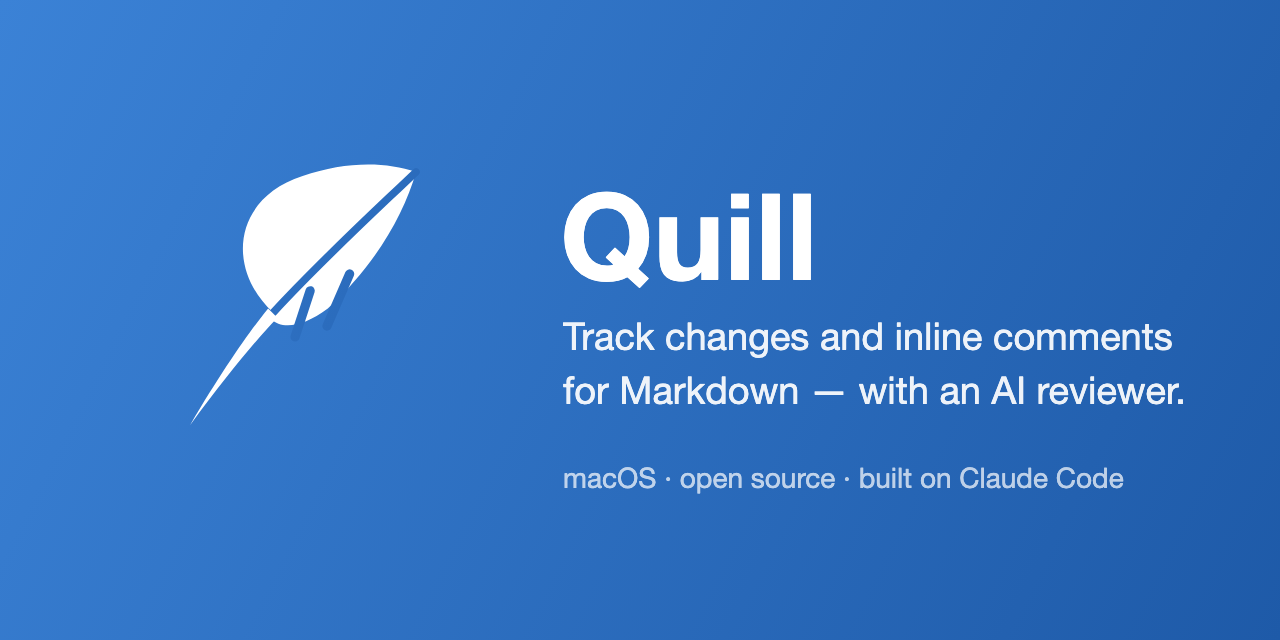
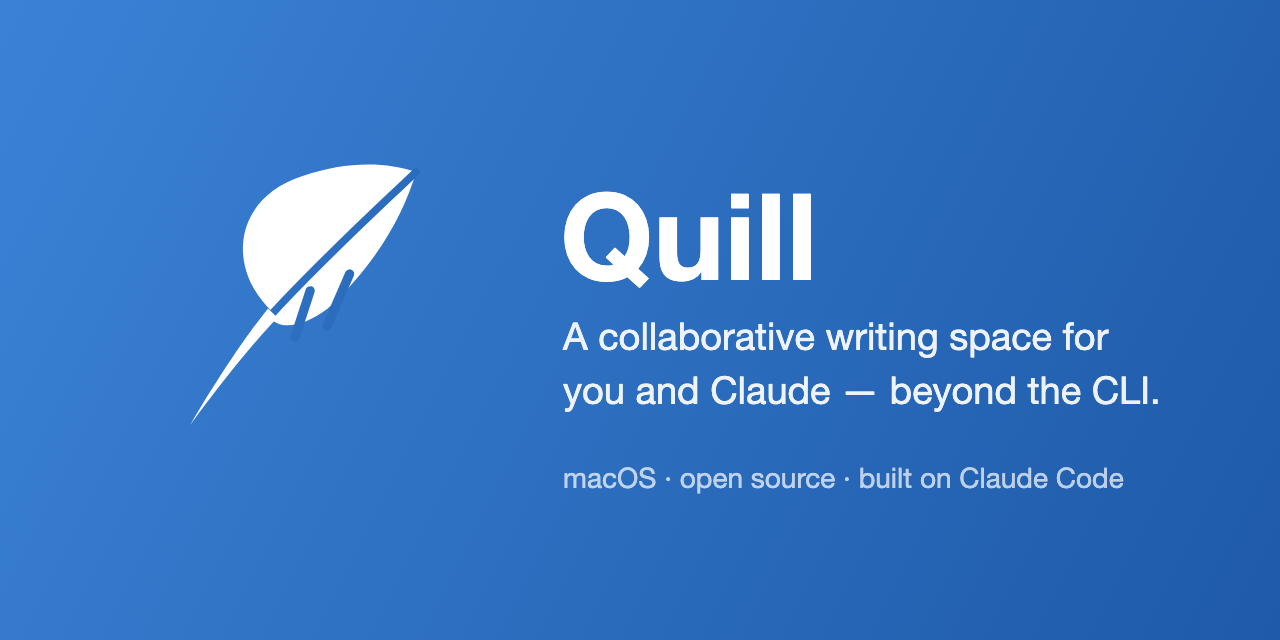
docs(hero): retheme around generating a report with Claude; new tagline
The terminal scene now shows Claude researching and writing
eu-market-entry.md before opening it in Quill, and the app frames edit
that report — the generate-with-Claude → edit-in-Quill story. Tagline
across README and the social preview now leads with the collaborative
writing environment: edit the plans and reports Claude writes, outside
the CLI. Frames restaged on top of the main merge so the comment thread
shows the question above Claude's answer.

Changed region(s): [[0.4375, 0.5, 0.9375, 0.6562]]

diff --git a/docs/assets/source/terminal.html b/docs/assets/source/terminal.html
@@ -94,6 +94,9 @@
       .out .bullet {
         color: #98c379;
       }
+      .step2 {
+        display: none;
+      }
       .caret {
         display: inline-block;
         width: 9px;
@@ -108,34 +111,50 @@
     <div class="window">
       <div class="titlebar">
         <span class="dot r"></span><span class="dot y"></span><span class="dot g"></span>
-        <span class="title">claude — ~/projects/launch</span>
+        <span class="title">claude — ~/work/eu-expansion</span>
       </div>
       <div class="body">
-        <div><span class="dim">~/projects/launch</span></div>
+        <div><span class="dim">~/work/eu-expansion</span></div>
         <div><span class="prompt">❯</span> <span class="cmd">claude</span></div>
         <div class="claude-box">
           <span class="spark">✻</span> Claude Code
-          <span class="dim">— resuming session in ~/projects/launch</span>
+          <span class="dim">— new session in ~/work/eu-expansion</span>
         </div>
         <div>
           <span class="prompt">&gt;</span>
-          <span class="slash">/quill-integration:open-in-quill</span>
-          <span class="cmd">launch-post.md</span><span class="caret" id="caret"></span>
+          <span class="cmd"
+            >Research our EU market entry options and write up a recommendation</span
+          >
         </div>
-        <div class="out" id="out" style="display: none">
+        <div class="out">
           <div>
-            <span class="bullet">⏺</span> Opening <span class="cmd">launch-post.md</span> in Quill…
+            <span class="bullet">⏺</span> Researching
+            <span class="dim">— market size, payments, localization…</span>
+          </div>
+          <div>
+            <span class="bullet">⏺</span> Write(<span class="cmd">eu-market-entry.md</span>)
+            <span class="dim">+96 lines — recommendation drafted</span>
+          </div>
+        </div>
+        <div class="step2" style="margin-top: 14px">
+          <span class="prompt">&gt;</span>
+          <span class="slash">/quill-integration:open-in-quill</span>
+          <span class="cmd">eu-market-entry.md</span><span class="caret"></span>
+        </div>
+        <div class="out step2">
+          <div>
+            <span class="bullet">⏺</span> Opening <span class="cmd">eu-market-entry.md</span> in
+            Quill…
           </div>
           <div class="dim" style="margin-left: 18px">
-            comments, tracked changes, and this session's link restored from the sidecar
+            linked to this session — comment @claude in Quill and this agent answers
           </div>
         </div>
       </div>
     </div>
     <script>
       if (new URLSearchParams(location.search).get('step') === '2') {
-        document.getElementById('out').style.display = 'block';
-        document.getElementById('caret').style.display = 'none';
+        document.querySelectorAll('.step2').forEach((el) => (el.style.display = 'block'));
       }
     </script>
   </body>

diff --git a/README.md b/README.md
@@ -1,8 +1,8 @@
 # Quill
 
-A desktop Markdown editor for **reviewing and revising prose**, modeled on Google Docs' suggesting mode. Quill pairs a clean writing surface with three review primitives — **tracked changes**, **inline comments**, and **AI replies from the Claude Code session that wrote the document**.
+A **collaborative writing environment for you and Claude** — take the plans, reports, and docs your agent drafts out of the CLI and work on them together in a real editor, with Google-Docs-style **tracked changes**, **inline comments**, and **@claude replies from the session that wrote the document**.
 
-![Send a draft from Claude Code into Quill, ask @claude in a comment, and review its rewrite as tracked changes you accept or reject](./docs/assets/hero.gif)
+![Claude Code researches and writes a recommendation report, opens it in Quill, and its rewrite arrives as tracked changes you accept or reject](./docs/assets/hero.gif)
 
 Files are plain `.md` on disk; review metadata rides alongside in a sidecar, so the Markdown stays portable and editable anywhere.
 